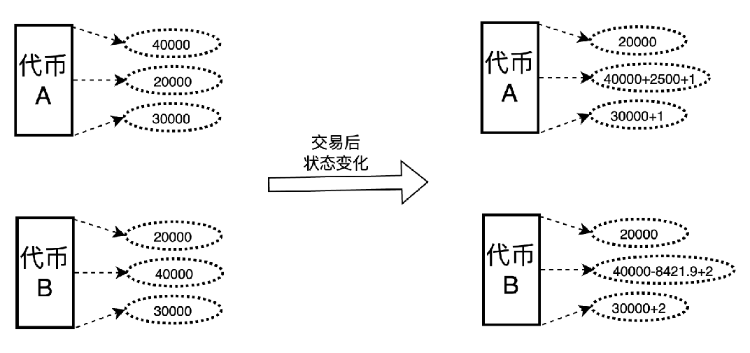
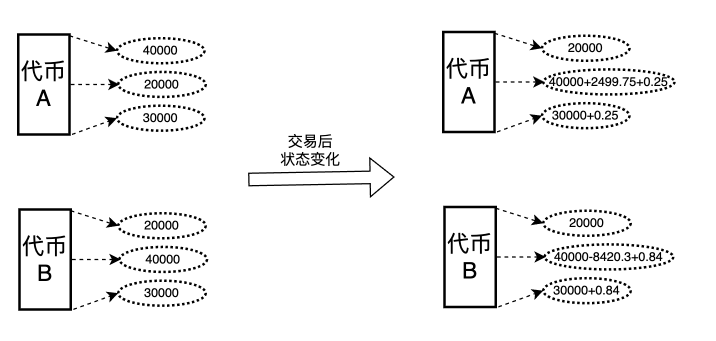
update whitepaper 20251113

diff --git a/i18n/zh/docusaurus-plugin-content-docs/current/knowledge/whitepaper/whitepaper.md b/i18n/zh/docusaurus-plugin-content-docs/current/knowledge/whitepaper/whitepaper.md
@@ -175,7 +175,7 @@ $$
 
 * 名词解释  
 **市场价值**：用来衡量代币的市场价值,代币的市场价值在交易过程不发生变化。  
-**当前数量**：记录协议中Token的当前数量和代币产生的手续费。  
+**代币数量**：记录协议中Token的当前数量和代币产生的手续费。  
 **投资数量**：记录协议中Token的总投资数量和代币产生的手续费。  
 当用户认为代币的价值偏低(即市场价值/当前数量),用户会购入此代币.  
 当用记认为代币的价值低高(即市场价值/当前数量),用户会出售此代币.  
@@ -222,8 +222,121 @@ Token配置占255位
 | 5   | 流动性加强倍数 | 10   | 20       | 1023   | 0      | 64     | 69     | (1~1023)      |
 | 6   | 撤资切片数     | 10   | 1        | 1023   | 0      | 70     | 79     | (1~1023)      |
 
+## 5 元Token的添加
+元Token指协议在部署后添加的第一个Token,同时为协议衡量后续添加的代币的价值.元Token也是一种价值Token.
 
-## 5 Token交换
+![alt text](whitepaper_image_cn/metagood.png)
+
+协议创建者会初始化第一个代币,添加2000Usdt,
+* 代币USDT属性变化
+  * 市场价值:0->2000
+  * 代币数量:0->2000
+  * 加强数量:0->0
+  * 投资数量:0->2000
+  * 投资份数:0->2000
+
+## 6 普通Token的添加  
+![alt text](whitepaper_image_cn/normaltokenadd.png)  
+用户添加普通Token时,需加同时添加等价值的价值Token.  
+* 第一步,设置普通代币数量 
+如用户添加普通代币A,添加2000个  
+* 第二步,锚定一个价值代币,并计算等价值的价值代币数量1000USDT
+那用户需求同时添加1000USDT,计算其价值等于1000  
+* 第三步,为普通代币添加价值1000
+* 第四步,核对添加后的两代币属性:  
+  * 代币USDT属性变化
+    * 市场价值:2000->3000
+    * 代币数量:2000->3000
+    * 加强数量:0->0
+    * 投资数量:2000->3000
+    * 投资份数:2000->3000 
+  * 代币Token A属性变化
+    * 市场价值:0->1000
+    * 代币数量:0->2000
+    * 加强数量:0->0
+    * 投资数量:0->2000
+    * 投资份数:0->2000
+
+## 7 Token投资与撤资
+协议中给token提供流动性与移除流动性,称之为Token投资与撤资.
+如果是给投资价值代币时,可以直接投资这代币.
+如是是给投资普通代币时,需要同时投资等价值的价值代币.
+
+### 7.1 记录投资和撤资
+
+协议中Token的交易，需有用户提供流动性。就应记录Token投资总市场价值与投资总数量。  
+
+![Alt text](whitepaper_image_cn/TOKEN_INVEST_STATE.png)  
+
+* 名词解释  
+**市场价值**：用户投资时Token的市场总价值。  
+**投资数量**：用户投资时Token的总数量。  
+**投资份数**：等于投资数量/市场价值.
+**加强数量**：投资数量-实际投资数量。  
+
+### 7.2 Token投资与撤资计算流程  
+
+![Alt text](whitepaper_image_cn/TOKEN_INVESTORDEVIST.png)  
+
+#### 7.2.1 用户投资前的代币属性和投资证明属性
+  * 代币属性
+    * 市场价值:40000
+    * 代币数量:20000
+    * 加强数量:0
+    * 投资数量:30000
+    * 投资份数:20000
+  * 证明属性
+    * 投资价值:0
+    * 投资份数:0
+    * 投资数量:0
+    * 实际数量:0
+#### 7.2.2 用户投资200个价值代币时操作步骤:
+  * 第一步:由于代币有投资加强5倍,用户投资200个代币,协议虚拟为投资1000个代币
+  * 第二步:计算投资时的价值,等于(代币的市场价值/代币的当前数量)*投资数量=2000
+  * 第三步:计算投资份数,投资总份数/投次总数量*投资数量,等于 1000/(30000/20000)=667
+  * 第四步:计算加强数量200=投资数量1000-实际投资数量200
+  * 第五步:同步代币属性
+    * 市场价值:40000->42000
+    * 代币数量:20000->21000
+    * 加强数量:0->800
+    * 投资数量:30000->31000
+    * 投资份数:20000->20667
+  * 第六步:同步用户投资证明的属性
+    * 投资价值:0->2000
+    * 投资份数:0->667
+    * 投资数量:0->1000
+    * 实际数量:0->200
+  
+#### 7.2.3 过一段时间后,因交易,代币属性发生变化
+  * 代币属性
+    * 市场价值:42000->42000
+    * 代币数量:21000->24000 
+    * 加强数量:800->800
+    * 投资数量:31000->33000
+    * 投资份数:20667->20667
+#### 7.2.4 用户撤资100份
+  * 第一步:计算100份对应的代币当前数量159=代币投资数量33000/代币投资份数20667*撤资份数100
+  * 第二步:计算100份对应投资时的代币数量152=证明中投资数量1000/证明中投资份数667*撤资份数100
+  * 第三步:计算100份对应投资时的市场价值300=证明中的投资价值2000/证明中的投资份数667*撤资份数100
+  * 第四步:计算100份对应的收益7=对应的代币当前数量159-对应投资时的代币数量152
+  * 第五步:计算100份对应的加强数量120=(证明中的投资数量1000-证明中的实际数量200)/证明中的投资份数667*撤资份数100
+  * 第六步:计算100份对应的实际投资数量30=(证明中的实际数量200)/证明中的投资份数667*撤资份数100
+  * 第七步:计算收益率23%=收益7/实际投资数量30
+  * 第八步:同步代币属性
+    * 市场价值:42000->42000
+    * 代币数量:24000-159->23841 
+    * 加强数量:800-120->680
+    * 投资数量:33000-159->32841
+    * 投资份数:20667-100->20567
+  * 第九步:同步用户投资证明的属性
+    * 投资价值:2000-300=1700
+    * 投资份数:667-100=567
+    * 投资数量:1000-152=848
+    * 实际数量:200-30->170
+
+>撤资Token时，取消数量＜Token当前的总数量/撤资切片数 和 取消数量对应的市场价值＜Token总价值/撤资切片数。会出现失败
+
+## 8 Token之间交换
 
 Token的交换实际上就是用户用自己手里的$Token_A$去交换市场上的$Token_B$。当用户选择放弃$Token_A$时，这时就计算$Token_A$的市场价值,从而选择购买等市场价值的$Token_B$时.  
 
@@ -233,76 +346,74 @@ Token的交换实际上就是用户用自己手里的$Token_A$去交换市场上
 而当用户获得$Token_B$时，协议中的$Token_B$数量减少，而$Token_B$的单位价值增加。  
 这就导致了相对于$Token_A$，$Token_B$的价格上升。因此，如果再次进行交易，用相同数量的$Token_A$只能换取比上次少一些的$Token_B$。
 
-### 5.1 计算过程
+### 8.1 计算流程
 
-#### 5.1.1 计算$Token_A$对应的市场价值  
+#### 8.1.1 交换前  $Token_A$和$Token_B$的属性
+* $Token_A$属性
+  * 市场价值$V_A$:40000
+  * 代币数量$Q_A$:20000 
+  * 投资数量$I_A$:30000
+  * 手续费:0.01%
 
-$$
-\begin{align}
-    价值(RV)&={2* V_A *Δa\over {2* Q_A+{Δa}}} \\
-    价值(RV)&={2* 40000 *2500\over {2*20000+{2500}}}  \\
-    价值(RV)&=4705.8  \\
-\end{align}
-$$
+* $Token_B$属性
+  * 市场价值$V_B$:20000
+  * 代币数量$Q_B$:40000 
+  * 投资数量$I_B$:30000
+  * 手续费:0.01%
 
-#### 5.1.2 计算等市场价值的Token b  
+#### 8.1.2 计算用户2500个$Token_A$对应的市场价值  
+* 第一步,计算2500个的手续费0.25=2500*0.01%  
+* 第二步,计算实际交换数量Δa:2499.75=2500-手续费0.25
+* 第三步,计算实际交易的市场价值RV=${2* V_A *Δa\over {2* Q_A+{Δa}}}$=${2* 40000 *2499.75\over {2* 20000+2499.75}}$=4705.4
 
-$$
-\begin{align}
-    数量Δb&= {2* Q_B*RV\over {2* V_B+{RV}}} \\
-    数量Δb&= {2*40000*4705.8}\over {2*20000+4705.8} \\
-    数量Δb&=8420.9 \\
-\end{align}
-$$
 
-#### 5.1.3 结果
+#### 8.1.3 计算等市场价值的$Token_B$  
+
+
+* 第一步,计算获得的数量Δb=${2* Q_B*RV\over {2* V_B+{RV}}}$=${2*40000*4705.4}\over {2*20000+4705.4}$=8420.3
+* 第二步,计算$Token_B$的手续续0.84=8420.3*0.01%
+* 第三步,用户实际获得数量8419.46=8420.3-0.84
+
+#### 8.1.4 交换后  $Token_A$和$Token_B$的属性
+* $Token_A$属性
+  * 市场价值$V_A$:40000->40000
+  * 代币数量$Q_A$:20000+2499.75+0.25->22500
+  * 投资数量$I_A$:30000+0.25->30000.25
+
+
+* $Token_B$属性
+  * 市场价值$V_B$:20000->20000
+  * 代币数量$Q_B$:40000-8420.3+0.84->31580.54
+  * 投资数量$I_B$:30000+0.84->30000.84
+
+#### 8.1.5 结果
+
 ![alt text](whitepaper_image_cn/TOKEN_SWAP_RESULT.png)  
-收取用户1个$Token A$ ,2个$Token B$作为手续费,用户花费(2500+1)个$Token A$,获得(8420.9-2)个 $Token B$.  
-### 5.2 关于合约  验证
-#### 5.2.1 验证1:公平性
+收取用户0.25个$Token A$ ,0.84个$Token B$作为手续费,用户花费(2500)个$Token A$,获得(8420.3-0.84)个 $Token B$.  
+### 8.2 关于合约  验证
+#### 8.2.1 验证1:公平性
 用户使用 $Token_A$ 购买 $Token_B$ 后,再使用购买到的$Token_B$再到协议中能购买到最初数量的$Token_A$
 >参见 modified_swap_without_fee:testswapA2B2Awithoutfee[测试合约地址](https://github.com/ttswap/ttswap-core/blob/5326e7cef7305d00fe9b909064113becc58968bd/test/modified_swap_without_fee.sol)
-#### 5.2.2 验证2:合理性
+#### 8.2.2 验证2:合理性
 用户购买$Token_B$时,分多笔订单与一次性成交的结果是一致的.
 >参见 modified_swap_without_fee:testswapA2B2C2Awithoutfee[测试合约地址](https://github.com/ttswap/ttswap-core/blob/5326e7cef7305d00fe9b909064113becc58968bd/test/modified_swap_without_fee.sol)
-#### 5.2.3 验证3:连接性
+#### 8.2.3 验证3:连接性
 用户使用a个 $Token_A$ 购买 $Token_B$,再使用获得$Token_B$购买 $Token_C$,再使用获得的 $Token_C$购买 $Token_A$.最终得到 $Token_A$ = 最初花费$Token_A$     
 >参见 modified_swap_without_fee:testswapA2B_part1 testswapA2B_part1 [测试合约地址](https://github.com/ttswap/ttswap-core/blob/5326e7cef7305d00fe9b909064113becc58968bd/test/modified_swap_without_fee.sol)
 
-## 6 Token投资与撤资
+## 9 手续费
 
-### 6.1 记录投资和撤资
-
-协议中Token的交易，需有用户提供流动性。就应记录Token投资总市场价值与投资总数量。  
-
-![Alt text](whitepaper_image_cn/TOKEN_INVEST_STATE.png)  
-
-* 名词解释  
-**投资价值**：用户投资时Token的市场总价值。  
-**投资数量**：用户投资时Token的总数量。  
-
-### 6.2 Token投资与撤资流程  
-
-![Alt text](whitepaper_image_cn/TOKEN_INVESTORDEVIST.png)
-
-* 用户投资价值Token
-  用户根据当前价值Token的状态，计算投资数量对应的市场价值。方便撤资时计算收益。
-* 用户撤资价值Token  
-  用户根据投资记录，计算投资产生的收益
-
->撤资Token时，取消数量＜Token当前的总数量/撤资切片数 和 取消数量对应的市场价值＜Token总价值/撤资切片数。
-
-### 7.1 Token手续费记录方式
+### 9.1 Token手续费记录方式
 
   **手续费**=每次交易产生的手续费都会记录到代币的当前数量和投资数量中去
 
-### 7.2 手续费来源
+### 9.2 手续费来源
 
 ![Alt text](whitepaper_image_cn/TOKEN_FEE_SOURCE.png)  
 
 手续费(实际手续费)的来源是根据Token的费率，当用户进行操作时，计算得到。
 
-### 7.3 手续费分配
+### 9.3 手续费分配
 
 ![Alt text](whitepaper_image_cn/TOKEN_FEE_ALLOCATION.png)  
 
@@ -316,7 +427,7 @@ $$
 手续费分配中用户所占比例划归于代币管理员。  
 手续费分配中推荐者所占比例划归于门户角色。  
 
-### 7.4 手续费计算流程(投资与撤资)  
+### 9.4 手续费计算流程(投资与撤资)  
 
 ![Alt text](whitepaper_image_cn/TOKEN_FEE_COMPUTE_1.png)
 

diff --git a/i18n/zh/docusaurus-plugin-content-docs/current/knowledge/tokeneconomic.md b/i18n/zh/docusaurus-plugin-content-docs/current/knowledge/tokeneconomic.md
@@ -26,11 +26,11 @@ import { ShareButton } from '@site/src/components/ShareButton';
 ## 🌱 2. 代币分配方案
 | 角色类型 | 分配比例 | 解锁规则 | 特殊说明 |
 |---------|---------|----------|----------|
-| 👨🚀 创始人 | 20% | 每次涨1倍解锁1/20 | 承担最多风险，绑定最紧密,目标1000倍,才能解锁一半 |
-| 🤝 合伙人A | 12% | 每次解锁1/16 | 核心骨干，离职仍可保留,目标600倍,才能解锁一半 |
-| 🤝 合伙人B | 0% | 每次解锁1/14 | 持续付出，离职回收未解锁,目标400倍,才能解锁一半 |
-| 💎 价值贡献者 | 44% | 每次最高解锁1/12 | 社区成员，不活跃会回收,目标200倍,才能解锁一半 |
-| 💰 资本贡献者 | 24% | 每次最高解锁1/8 | 投资人，部分可立即流通,期望涨100倍,才能解锁一半 |
+| 👨🚀 创始人 | 20% | 每次涨1倍解锁$\frac{1}{20}$ | 承担最多风险，绑定最紧密,目标1000倍,才能解锁一半 |
+| 🤝 合伙人A | 12% | 每次涨1倍解锁$\frac{1}{16}$ | 核心骨干，离职仍可保留,目标600倍,才能解锁一半 |
+| 🤝 合伙人B | 0% | 每次涨1倍解锁$\frac{1}{14}$ | 持续付出，离职回收未解锁,目标400倍,才能解锁一半 |
+| 💎 价值贡献者 | 44% | 每次涨1倍最高解锁$\frac{1}{12}$ | 社区成员，不活跃会回收,目标200倍,才能解锁一半 |
+| 💰 资本贡献者 | 24% | 每次涨1倍最高解锁$\frac{1}{8}$ | 投资人，部分可立即流通,期望涨100倍,才能解锁一半 |
 
 
 ### 📝 角色详细说明
@@ -100,13 +100,14 @@ import { ShareButton } from '@site/src/components/ShareButton';
 ### 🎯 解锁速度对比
 | 角色 | 解锁速度 | 解锁比例 | 绑定程度 |
 |------|----------|----------|----------|
-| 创始人 | 🐢 最慢 | 1/20 | 最强 |
-| 合伙人A | 🚲 慢 | 1/16 | 强 |
-| 合伙人B | 🏍 较快 | 1/14 | 中等 |
-| 价值贡献者 | 🚗 快 | 1/12 | 弱 |
-| 资本贡献者 | ✈ 最快 | 1/8 | 最弱 |
+| 创始人 | 🐢 最慢 | $\frac{1}{20}$| 最强 |
+| 合伙人A | 🚲 慢 | $\frac{1}{16}$ | 强 |
+| 合伙人B | 🏍 较快 | $\frac{1}{14}$| 中等 |
+| 价值贡献者 | 🚗 快 | $\frac{1}{12}$ | 弱 |
+| 资本贡献者 | ✈ 最快 | $\frac{1}{8}$ | 最弱 |
 
 ## 💰 4. 代币应用场景
+
 1. 🏛 **治理权**
    - 📝 提案权
    - 🗳 投票权
